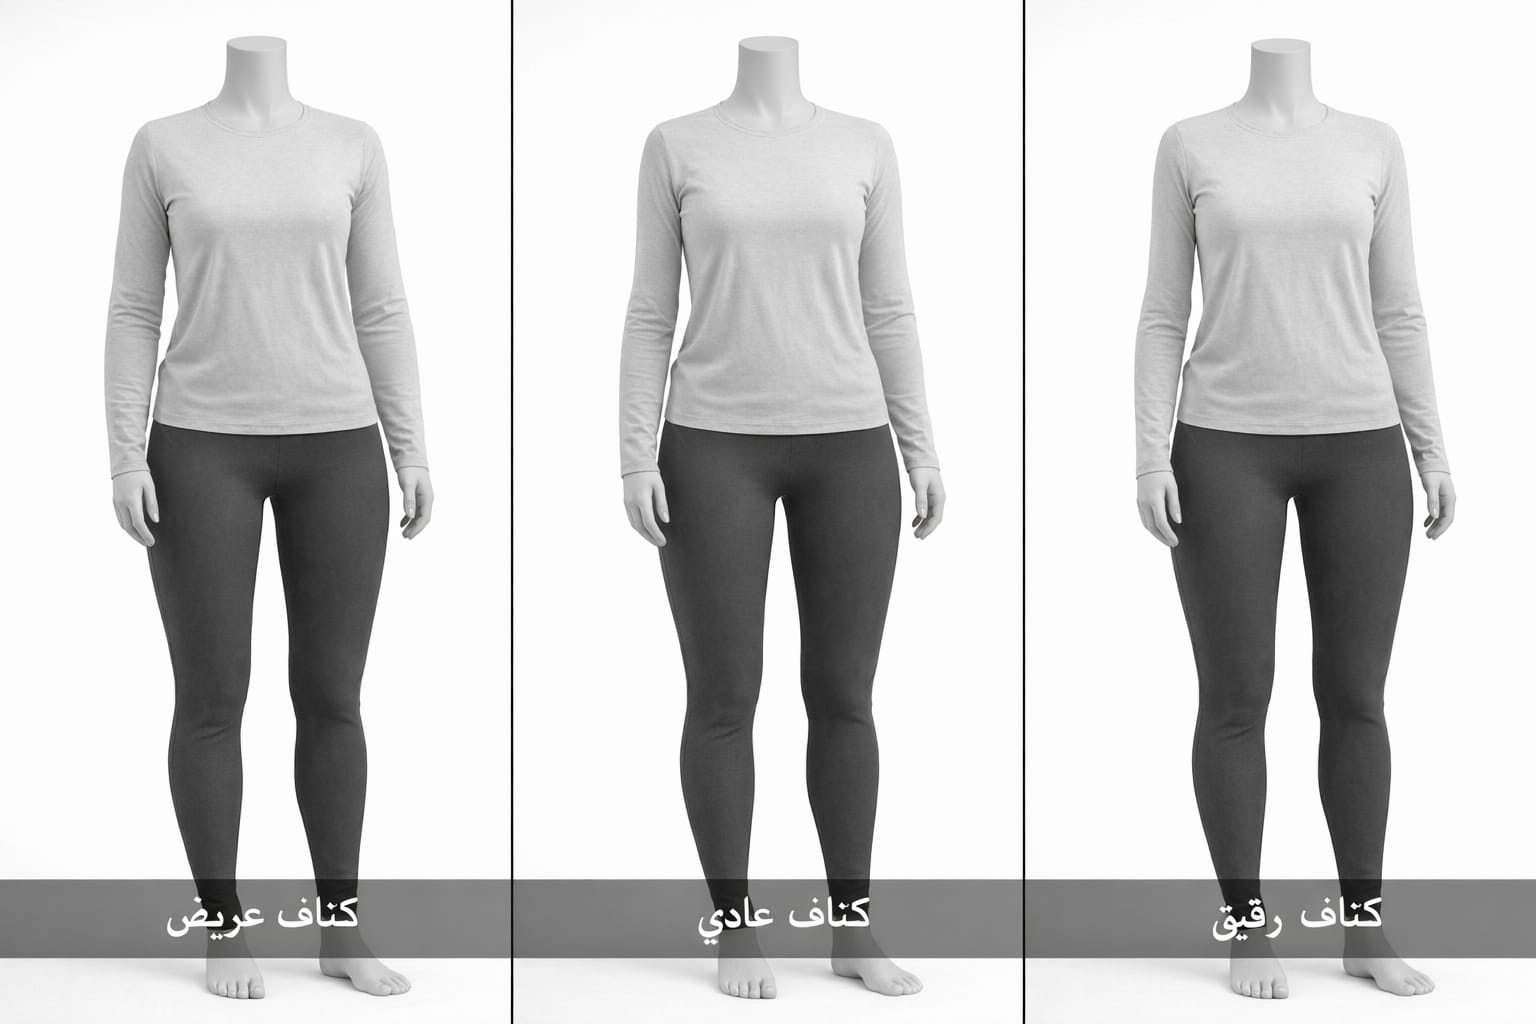
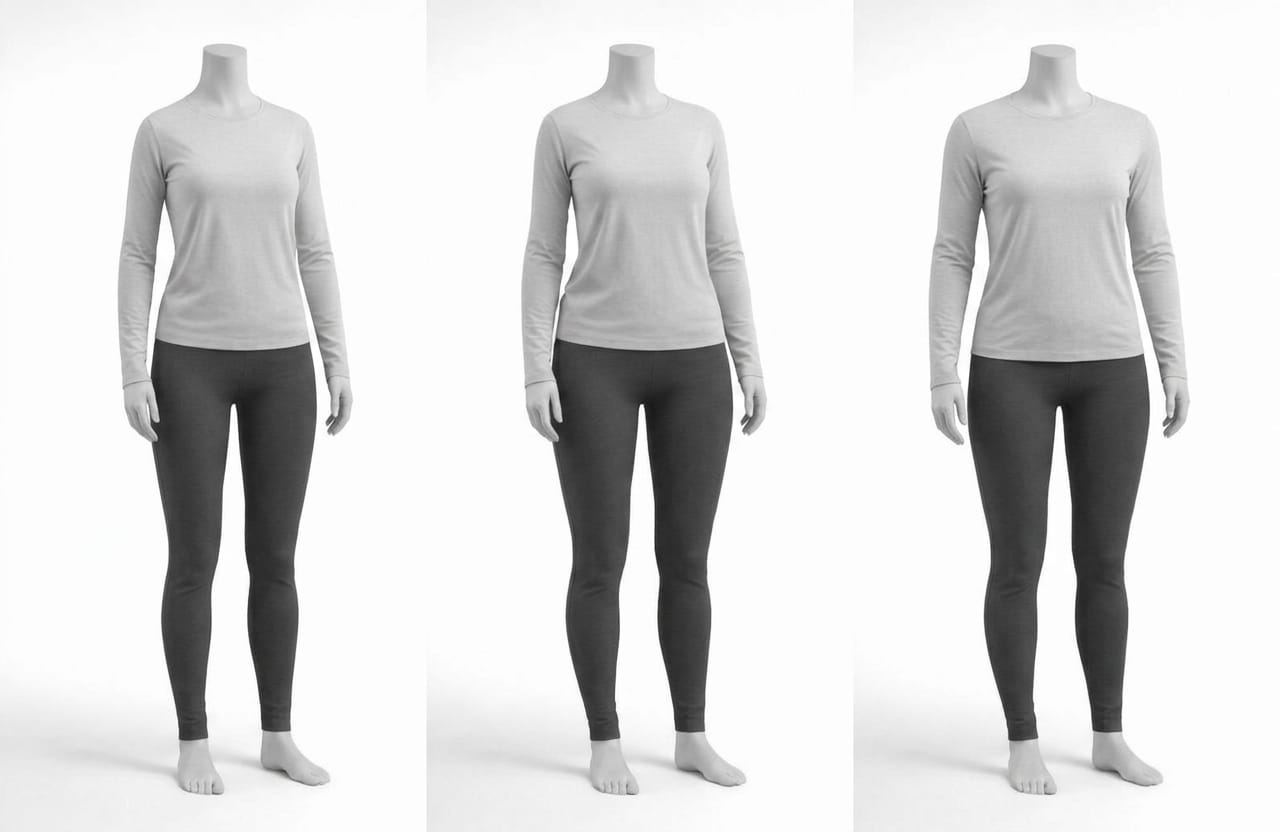
feat: replace female shoulders + hips images, fix panel order
- q-shoulders-f.jpg: new image, panels narrow(0)|normal(1)|broad(2)
  → added panelM for male which keeps broad(0)|normal(1)|narrow(2)
- q-hips-f.jpg: new image, panels slim(0)|normal(1)|large(2)
  → female large now panel:2, small panel:0 (male unchanged via panelM)

Changed region(s): [[0.0, 0.0312, 1.0, 1.0], [0.4062, 0.125, 0.5, 0.3438]]

diff --git a/public/widget.js b/public/widget.js
@@ -133,9 +133,9 @@
       id: "shoulders", type: "cards", yPos: 15,
       q: "ما شكل كتفيك؟", hint: "اختر الوصف الأقرب لشكل كتفيك.",
       options: [
-        { v: "broad",  label: "عريضة", img: "images/q-shoulders-f.jpg", panel: 0 },
-        { v: "normal", label: "عادية", img: "images/q-shoulders-f.jpg", panel: 1 },
-        { v: "narrow", label: "رقيقة", img: "images/q-shoulders-f.jpg", panel: 2 },
+        { v: "broad",  label: "عريضة", img: "images/q-shoulders-f.jpg", panel: 2, panelM: 0 },
+        { v: "normal", label: "عادية", img: "images/q-shoulders-f.jpg", panel: 1, panelM: 1 },
+        { v: "narrow", label: "رقيقة", img: "images/q-shoulders-f.jpg", panel: 0, panelM: 2 },
       ],
     },
     {
@@ -160,9 +160,9 @@
       id: "hips", type: "cards", yPos: 38,
       q: "ما حجم وركيك؟", hint: "اختر الوصف الأقرب لمنطقة الورك.",
       options: [
-        { v: "large",  label: "كبير", img: "images/q-hips-f.jpg", panel: 1, panelM: 0 },
-        { v: "normal", label: "عادي", img: "images/q-hips-f.jpg", panel: 0, panelM: 1 },
-        { v: "small",  label: "ضيق",  img: "images/q-hips-f.jpg", panel: 2, panelM: 2 },
+        { v: "large",  label: "كبير", img: "images/q-hips-f.jpg", panel: 2, panelM: 0 },
+        { v: "normal", label: "عادي", img: "images/q-hips-f.jpg", panel: 1, panelM: 1 },
+        { v: "small",  label: "ضيق",  img: "images/q-hips-f.jpg", panel: 0, panelM: 2 },
       ],
     },
   ];
